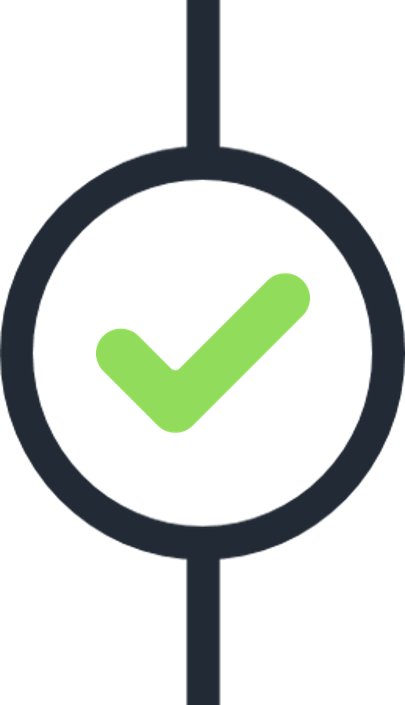
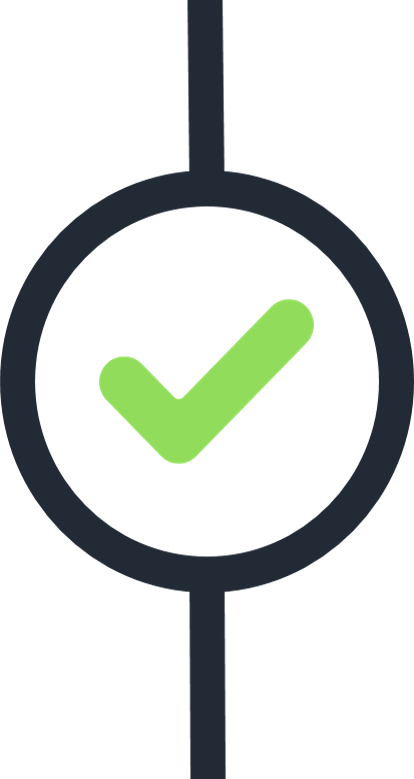
add dynamic state menu image

diff --git a/practice/templates/practice/data.html b/practice/templates/practice/data.html
@@ -1,6 +1,7 @@
 {% extends 'practice/base.html' %}
-{% block content %}
+{% load staticfiles %}
 
+{% block content %}
 <div class="row">
   <h1>Input Data</h1>
   <br>
@@ -12,24 +13,6 @@
       <button onclick="loadData()">Load data</button>
     </li>
     <br><br>
-    <li>
-      <h3>Use Own Data</h3>
-      <br>
-      <div class="col-sm-4" id="Image">
-        <h4>Training Image</h4>
-        <form action = "/{{ practice_name }}/upload/" method="post" enctype="multipart/form-data">
-          <input type="file" enctype="multipart/form-data" name="file"/>
-          <input type="submit" value="Upload" />
-        </form>
-      </div>
-      <div class="col-sm-4" id="Label">
-        <h4>Training Label</h4>
-        <form action = "/{{ practice_name }}/upload/" method="post" enctype="multipart/form-data">
-          <input type="file" enctype="multipart/form-data" name="file"/>
-          <input type="submit" value="Upload" />
-        </form>
-      </div>
-    </li>
   </ul>
 </div>
 <br><br>
@@ -52,5 +35,10 @@
     location.href='/{{ practice_name }}/algorithm'
   });
 </script>
-
 {% endblock content %}
+
+{% block scripts %}
+<script>
+  $('.data-end').attr('src','{% static 'practice/images/end_exec.png' %}');
+</script>
+{% endblock %}

diff --git a/practice/templates/practice/training/run.html b/practice/templates/practice/training/run.html
@@ -1,7 +1,7 @@
 {% extends 'practice/base_training.html' %}
 {% load staticfiles %}
-{% block frame %}
 
+{% block frame %}
 <h3>3. Run {{ practice_name }} training</h3>
 <br>
 <button id="runButton">Run</button>
@@ -63,17 +63,14 @@
     });
   }
 </script>
-
 {% endblock frame %}
 
 {% block scripts %}
-
-  <script>
-    $('.data-middle').attr('src','{% static 'practice/images/middle_check.png' %}');
-    $('.data-end').attr('src','{% static 'practice/images/end_check.png' %}');
-    $('.algorithm-end').attr('src','{% static 'practice/images/end_check.png' %}');
-    $('#training-2').attr('src','{% static 'practice/images/middle_check.png' %}');
-    $('#training-3').attr('src','{% static 'practice/images/middle_exec.png' %}');
-  </script>
-
+<script>
+  $('.data-end').attr('src','{% static 'practice/images/end_check.png' %}');
+  $('.algorithm-end').attr('src','{% static 'practice/images/end_check.png' %}');
+  $('#training-1').attr('src','{% static 'practice/images/middle_check.png' %}');
+  $('#training-2').attr('src','{% static 'practice/images/middle_check.png' %}');
+  $('#training-3').attr('src','{% static 'practice/images/middle_exec.png' %}');
+</script>
 {% endblock %}

diff --git a/practice/templates/practice/training/check.html b/practice/templates/practice/training/check.html
@@ -1,7 +1,7 @@
 {% extends 'practice/base_training.html' %}
 {% load staticfiles %}
-{% block frame %}
 
+{% block frame %}
 <h3>2. Check all settings</h3>
 <br>
 <table border="1" class="w3-table-all">
@@ -22,17 +22,13 @@
     }
   );
 </script>
-
 {% endblock frame %}
 
 {% block scripts %}
-
-  <script>
-    $('.data-middle').attr('src','{% static 'practice/images/middle_check.png' %}');
-    $('.data-end').attr('src','{% static 'practice/images/end_check.png' %}');
-    $('.algorithm-end').attr('src','{% static 'practice/images/end_check.png' %}');
-    $('#training-1').attr('src','{% static 'practice/images/middle_check.png' %}');
-    $('#training-2').attr('src','{% static 'practice/images/middle_exec.png' %}');
-  </script>
-
+<script>
+  $('.data-end').attr('src','{% static 'practice/images/end_check.png' %}');
+  $('.algorithm-end').attr('src','{% static 'practice/images/end_check.png' %}');
+  $('#training-1').attr('src','{% static 'practice/images/middle_check.png' %}');
+  $('#training-2').attr('src','{% static 'practice/images/middle_exec.png' %}');
+</script>
 {% endblock %}

diff --git a/practice/templates/practice/training/result.html b/practice/templates/practice/training/result.html
@@ -1,19 +1,21 @@
 {% extends 'practice/base_training.html' %}
 {% load staticfiles %}
-{% block frame %}
 
+{% block frame %}
 <h3>4. {{ practice_name }} training result</h3>
 <br>
   <iframe src="http://localhost:6006" scrolling=yes width=1000 height=500 frameborder=1></iframe>
 <br><br>
 <input type="submit" value="Next">
-
 {% endblock frame %}
 
 {% block scripts %}
-  <script>
-    $('#training-3').attr('src','{% static 'practice/images/middle_check.png' %}');
-    $('#training-4').attr('src','{% static 'practice/images/middle_exec.png' %}');
-  </script>
-
+<script>
+  $('.data-end').attr('src','{% static 'practice/images/end_check.png' %}');
+  $('.algorithm-end').attr('src','{% static 'practice/images/end_check.png' %}');
+  $('#training-1').attr('src','{% static 'practice/images/middle_check.png' %}');
+  $('#training-2').attr('src','{% static 'practice/images/middle_check.png' %}');
+  $('#training-3').attr('src','{% static 'practice/images/middle_check.png' %}');
+  $('#training-4').attr('src','{% static 'practice/images/end_exec.png' %}');
+</script>
 {% endblock %}

diff --git a/practice/templates/practice/training/training.html b/practice/templates/practice/training/training.html
@@ -1,7 +1,7 @@
 {% extends 'practice/base_training.html' %}
 {% load staticfiles %}
-{% block frame %}
 
+{% block frame %}
 <h3>1. Set {{ practice_name }} training settings</h3>
 <br>
 <form action = "/{{ practice_name }}/training/" accept-charset="utf-8" name="save_training" method="post">
@@ -11,16 +11,12 @@
   {% endfor %}
   <input type="submit" value="Next">
 </form>
-
 {% endblock frame %}
 
 {% block scripts %}
-
-  <script>
-    $('.data-middle').attr('src','{% static 'practice/images/middle_check.png' %}');
-    $('.data-end').attr('src','{% static 'practice/images/end_check.png' %}');
-    $('.algorithm-end').attr('src','{% static 'practice/images/end_check.png' %}');
-    $('#training-1').attr('src','{% static 'practice/images/middle_exec.png' %}');
-  </script>
-
+<script>
+  $('.data-end').attr('src','{% static 'practice/images/end_check.png' %}');
+  $('.algorithm-end').attr('src','{% static 'practice/images/end_check.png' %}');
+  $('#training-1').attr('src','{% static 'practice/images/middle_exec.png' %}');
+</script>
 {% endblock %}

diff --git a/practice/templates/practice/algorithm.html b/practice/templates/practice/algorithm.html
@@ -1,7 +1,7 @@
 {% extends 'practice/base.html' %}
 {% load staticfiles %}
-{% block content %}
 
+{% block content %}
 <div class="row" >
   <h1>Set {{ practice_name }} algorithm</h1>
   <form action = "/{{ practice_name }}/algorithm/" accept-charset="utf-8" name="save_algorithm" method="post">
@@ -24,16 +24,11 @@
     <input type="submit" value="Next">
   </form>
 </div>
-
 {% endblock content %}
 
 {% block scripts %}
-
-  <script>
-    $('.data-middle').attr('src','{% static 'practice/images/middle_check.png' %}');
-    $('.data-end').attr('src','{% static 'practice/images/end_check.png' %}');
-    $('.algorithm-end').attr('src','{% static 'practice/images/end_exec.png' %}');
-
-  </script>
-
+<script>
+  $('.data-end').attr('src','{% static 'practice/images/end_check.png' %}');
+  $('.algorithm-end').attr('src','{% static 'practice/images/end_exec.png' %}');
+</script>
 {% endblock %}

diff --git a/practice/templates/practice/base.html b/practice/templates/practice/base.html
@@ -25,12 +25,8 @@
         <li><i class="material-icons icon">folder_open</i><p>Data</p></a></li>
         <ul class="submenu">
           <li>
-            <div class="submenu_image"><img id="data-1" src="{% static 'practice/images/middle.png' %}" class="step-image data-middle"></div>
+            <div class="submenu_image"><img id="data-1" src="{% static 'practice/images/end.png' %}" class="step-image data-end"></div>
             <div class="submenu_name"><span>Load</span></div>
-          </li>
-          <li>
-            <div class="submenu_image"><img id="data-2" src="{% static 'practice/images/end.png' %}" class="step-image data-end"></div>
-            <div class="submenu_name"><span>Pre-processing</span></div>
           </li>
         </ul>
           <li><i class="material-icons icon">multiline_chart</i><p>Algorithm</p></a></li>

diff --git a/practice/templates/practice/base_training.html b/practice/templates/practice/base_training.html
@@ -1,13 +1,12 @@
 {% extends 'practice/base.html' %}
 {% load staticfiles %}
-{% block content %}
 
+{% block content %}
 <div class="row">
   <h1>{{ practice_name }} training</h1>
   <br>
   {% block frame %}
   {% endblock %}
 </div>
-
 {% endblock content %}
 

diff --git a/practice/services.py b/practice/services.py
@@ -115,7 +115,7 @@ class MNIST(BasePractice):
     @staticmethod
     def get_training_settings():
         return {
-            'Learning Rate': 0.1,
+            'Learning Rate': 0.01,
             'Optimization Epoch': 10,
         }
 
